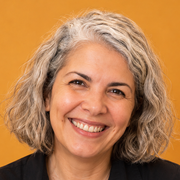
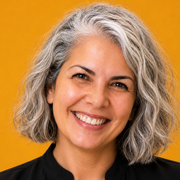
Deploy the newly uploaded portrait
Use the photo added on GitHub, match the accent to its background, and rebuild the tab icons.

diff --git a/styles.css b/styles.css
@@ -6,8 +6,8 @@
   --muted: #b8b0a5;
   --faint: #7d776f;
   --line: rgba(244, 239, 230, 0.1);
-  --accent: #df8e2e;
-  --accent-deep: #c47820;
+  --accent: #e7910a;
+  --accent-deep: #c47808;
   --ink-on-accent: #1a1208;
   --serif: "Fraunces", "Iowan Old Style", "Palatino Linotype", Palatino, serif;
   --sans: "Outfit", "Avenir Next", "Segoe UI", sans-serif;
@@ -32,8 +32,8 @@ body {
   margin: 0;
   min-height: 100vh;
   background:
-    radial-gradient(1200px 520px at 85% -10%, rgba(224, 144, 48, 0.18), transparent 55%),
-    radial-gradient(900px 420px at 0% 12%, rgba(224, 144, 48, 0.05), transparent 50%),
+    radial-gradient(1200px 520px at 85% -10%, rgba(231, 145, 10, 0.18), transparent 55%),
+    radial-gradient(900px 420px at 0% 12%, rgba(231, 145, 10, 0.05), transparent 50%),
     var(--bg);
   color: var(--ink);
   font-family: var(--sans);
@@ -452,7 +452,7 @@ ol {
   grid-column: 1 / -1;
   padding: 1.85rem 1.8rem 1.6rem;
   background:
-    linear-gradient(135deg, rgba(224, 144, 48, 0.14), transparent 46%),
+    linear-gradient(135deg, rgba(231, 145, 10, 0.14), transparent 46%),
     var(--bg-card);
 }
 
@@ -690,7 +690,7 @@ ol {
 
 .contact {
   background:
-    linear-gradient(180deg, rgba(224, 144, 48, 0.08), transparent 42%),
+    linear-gradient(180deg, rgba(231, 145, 10, 0.08), transparent 42%),
     var(--bg-soft);
 }
 

diff --git a/index.html b/index.html
@@ -34,7 +34,7 @@
       href="https://fonts.googleapis.com/css2?family=Fraunces:ital,opsz,wght@0,9..144,400;0,9..144,560;0,9..144,680;1,9..144,480&family=Outfit:wght@380;450;550;650&display=swap"
       rel="stylesheet"
     />
-    <link rel="stylesheet" href="styles.css?v=hires" />
+    <link rel="stylesheet" href="styles.css?v=upload" />
 
     <script type="application/ld+json">
       {
@@ -58,7 +58,7 @@
     <header class="site-header" data-header>
       <div class="wrap header-inner">
         <a class="wordmark" href="#top" aria-label="Lilia Dassine Belaïd Bründler, home">
-          <img src="images/me.jpg?v=hires" alt="" width="36" height="36" />
+          <img src="images/me.jpg?v=upload" alt="" width="36" height="36" />
           <span>LD BB Development</span>
         </a>
         <nav class="nav" data-nav aria-label="Primary">
@@ -111,7 +111,7 @@
           <figure class="hero-portrait">
             <div class="portrait-frame">
               <img
-                src="images/me.jpg?v=hires"
+                src="images/me.jpg?v=upload"
                 alt="Portrait of Lilia Dassine Belaïd Bründler"
                 width="1254"
                 height="1254"

diff --git a/404.html b/404.html
@@ -14,7 +14,7 @@
       href="https://fonts.googleapis.com/css2?family=Fraunces:ital,opsz,wght@0,9..144,560;1,9..144,480&family=Outfit:wght@380;450;550&display=swap"
       rel="stylesheet"
     />
-    <link rel="stylesheet" href="styles.css?v=hires" />
+    <link rel="stylesheet" href="styles.css?v=upload" />
   </head>
   <body>
     <main class="lost">
